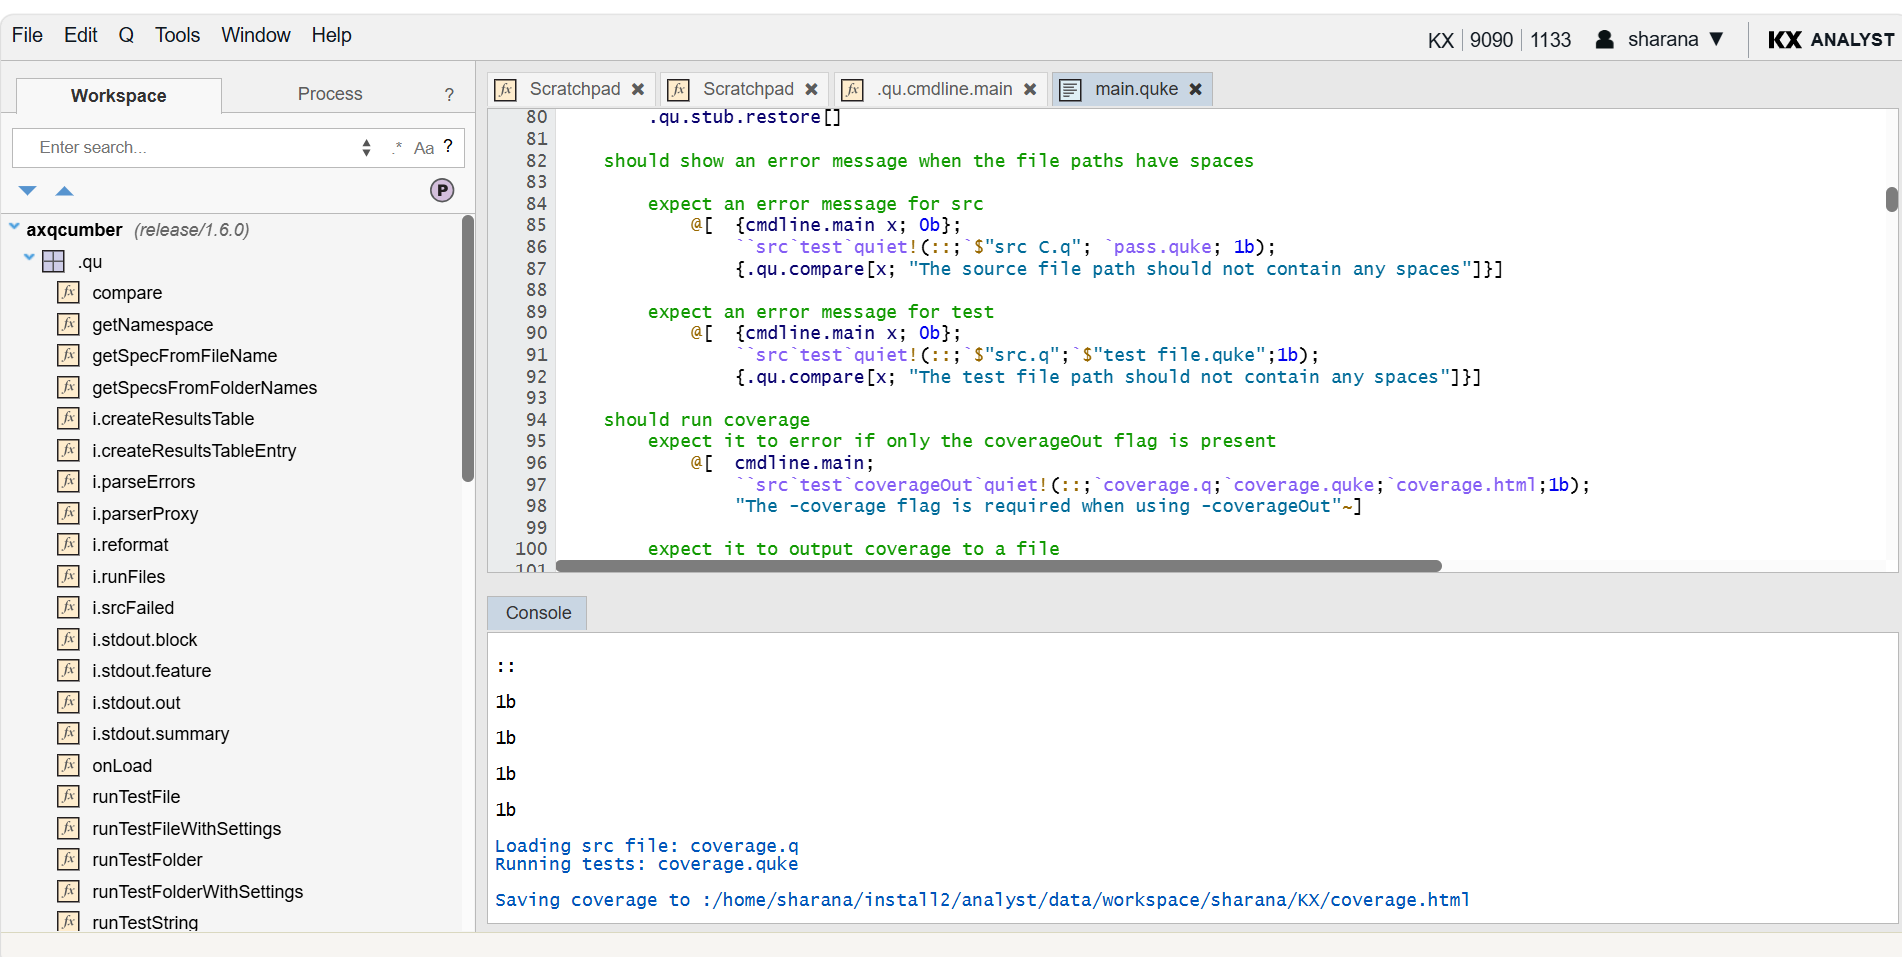
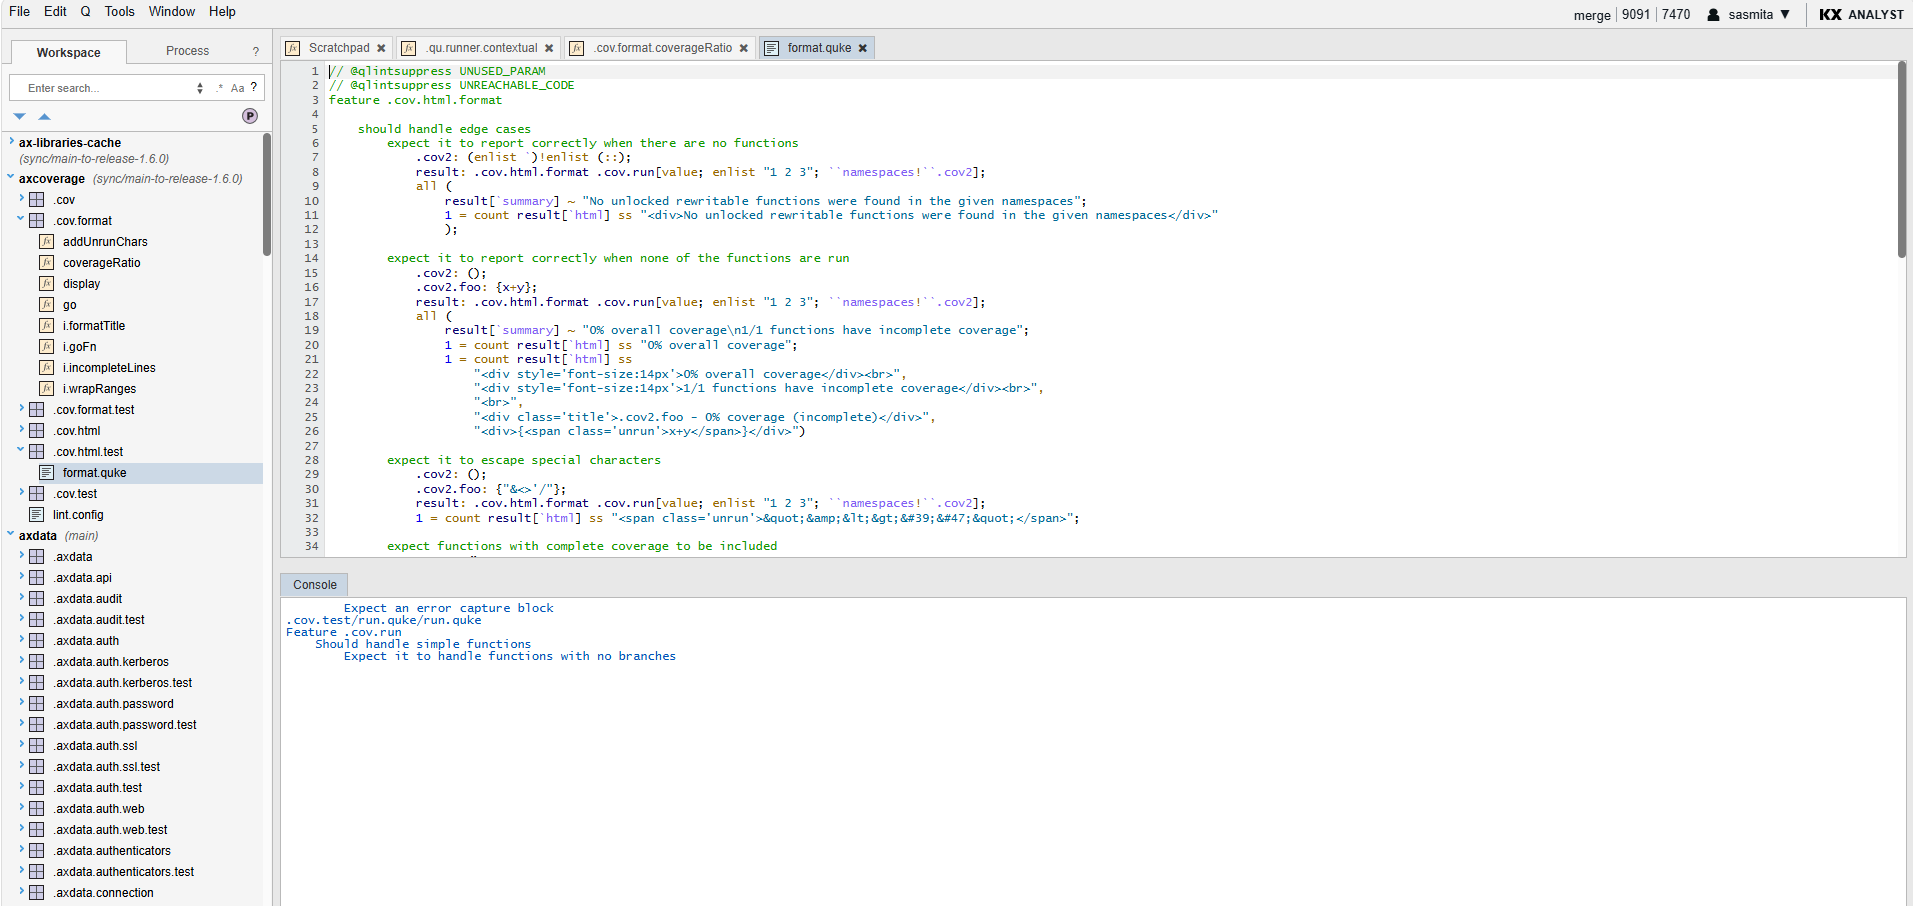
Restore debugger and add testing unit, linting, and git to developer tools list on Slide 5

Changed region(s): [[0.0, 0.0, 1.0, 1.0], [0.2482, 0.649, 1.0, 0.989]]

diff --git a/script.js b/script.js
@@ -755,7 +755,8 @@ const DEFAULT_TOOL_IMAGES = {
   transformer: "images/table-transformer.png",
   git: "images/git.png",
   qcumber: "images/axqcumber.png",
-  profiler: "images/profiler.png"
+  profiler: "images/profiler.png",
+  testing: "images/testing.png"
 };
 
 // TOOL DETAILS DICTIONARY
@@ -817,7 +818,27 @@ const TOOL_DETAILS = {
     desc: "Real-time execution profiler that analyzes q code down to line-by-line timing, function call counts, and memory allocations during heavy tick volume runs.",
     value: "Pinpoints performance bottlenecks instantly, ensuring trading analytics run at sub-millisecond speeds even during extreme market volatility."
   },
-
+  debugger: {
+    name: "Interactive Debugger",
+    icon: "🐛",
+    badge: "Developer Tool",
+    desc: "Visual step-by-step debugger for q logic. Enables developers to set breakpoints, step into/over functions, inspect stack callframes, monitor variable values, and evaluate expressions at runtime.",
+    value: "Reduces issue resolution time by over 70%. Developers no longer need to insert manual print statements to trace complex trading analytics bugs."
+  },
+  testing: {
+    name: "Testing Unit",
+    icon: "🧪",
+    badge: "Quality Assurance",
+    desc: "Automated unit testing and code coverage analysis specifically built for the q language. Enables continuous integration checks and sanity-testing of code updates before merge.",
+    value: "Guarantees that new changes do not break existing queries, catching bugs early in the developer workflow."
+  },
+  linting: {
+    name: "Code Linting",
+    icon: "🚨",
+    badge: "Code Standards",
+    desc: "Automated source code analyzer that checks q/kdb+ code for syntax issues, formatting errors, deprecations, and deviations from team coding guidelines.",
+    value: "Enforces consistent code quality across distributed developer teams automatically."
+  }
 };
 
 // TOOL MINI-ANIMATIONS — "See It In Action" per tool
@@ -974,7 +995,36 @@ const TOOL_ANIMATIONS = {
     });
     toolAnimTimers.push(setTimeout(() => stage.querySelector('#ta-warn').classList.add('in'), 1400));
   },
-
+  debugger: (stage) => {
+    stage.innerHTML = `
+      <div class="ta-mono">f:{[x;y] <span style="color:#EF4444;">●</span> x+y}</div>
+      <div class="ta-fadein" id="ta-paused" style="font-size:0.75rem;"><span class="ta-badge amber">⏸ Paused at breakpoint</span></div>
+      <div class="ta-fadein" id="ta-vars" style="font-size:0.72rem;color:#9CA3AF;font-family:'Courier New',monospace;">x = 10 &nbsp; y = 20</div>
+    `;
+    toolAnimTimers.push(setTimeout(() => stage.querySelector('#ta-paused').classList.add('in'), 500));
+    toolAnimTimers.push(setTimeout(() => stage.querySelector('#ta-vars').classList.add('in'), 950));
+  },
+  testing: (stage) => {
+    stage.innerHTML = `
+      <div style="display:flex;flex-direction:column;gap:6px;">
+        <div style="display:flex;justify-content:space-between;font-size:0.75rem;color:#D1D5DB;"><span>test_avg_price</span><span id="ta-t1"><span class="ta-spinner"></span></span></div>
+        <div style="display:flex;justify-content:space-between;font-size:0.75rem;color:#D1D5DB;"><span>test_null_handling</span><span id="ta-t2"><span class="ta-spinner"></span></span></div>
+        <div class="ta-fadein" id="ta-tsum" style="font-size:0.78rem;color:#34D399;font-weight:700;margin-top:4px;">All tests passed (2/2) ✅</div>
+      </div>
+    `;
+    const t1 = stage.querySelector('#ta-t1'), t2 = stage.querySelector('#ta-t2');
+    const tsum = stage.querySelector('#ta-tsum');
+    toolAnimTimers.push(setTimeout(() => t1.innerHTML = '<span class="ta-badge green">✓ pass</span>', 500));
+    toolAnimTimers.push(setTimeout(() => t2.innerHTML = '<span class="ta-badge green">✓ pass</span>', 1000));
+    toolAnimTimers.push(setTimeout(() => tsum.classList.add('in'), 1300));
+  },
+  linting: (stage) => {
+    stage.innerHTML = `
+      <div class="ta-mono" style="font-size:0.75rem;">Linting source directories...</div>
+      <div class="ta-fadein" id="ta-lint-result" style="font-size:0.78rem;color:#34D399;font-weight:700;margin-top:4px;">No styling errors found ✨</div>
+    `;
+    toolAnimTimers.push(setTimeout(() => stage.querySelector('#ta-lint-result').classList.add('in'), 800));
+  }
 };
 
 function playToolAnimation(toolId) {

diff --git a/index.html b/index.html
@@ -243,7 +243,11 @@
             <div class="row-label">What They Use</div>
             <div class="row-value tool-tags-inline">
               <span class="tool-btn-inline" data-tool="editor">Editor</span>,
-              <span class="tool-btn-inline" data-tool="profiler">Profiler</span>
+              <span class="tool-btn-inline" data-tool="debugger">Debugger</span>,
+              <span class="tool-btn-inline" data-tool="testing">Testing Unit</span>,
+              <span class="tool-btn-inline" data-tool="profiler">Profiler</span>,
+              <span class="tool-btn-inline" data-tool="linting">Linting</span>,
+              <span class="tool-btn-inline" data-tool="git">Git</span>
             </div>
           </div>
           <div class="user-card-row">
